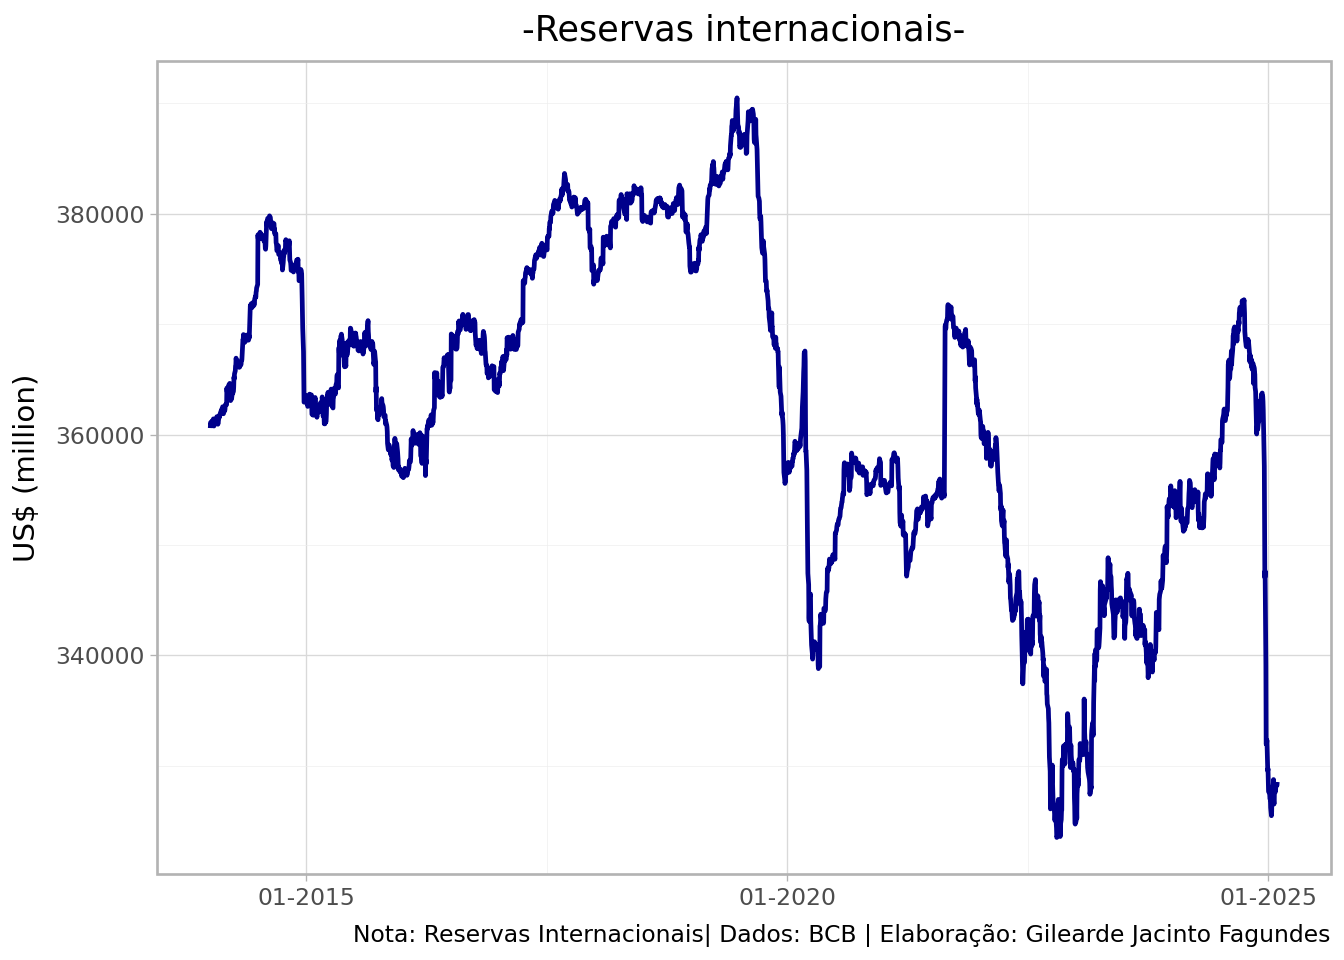
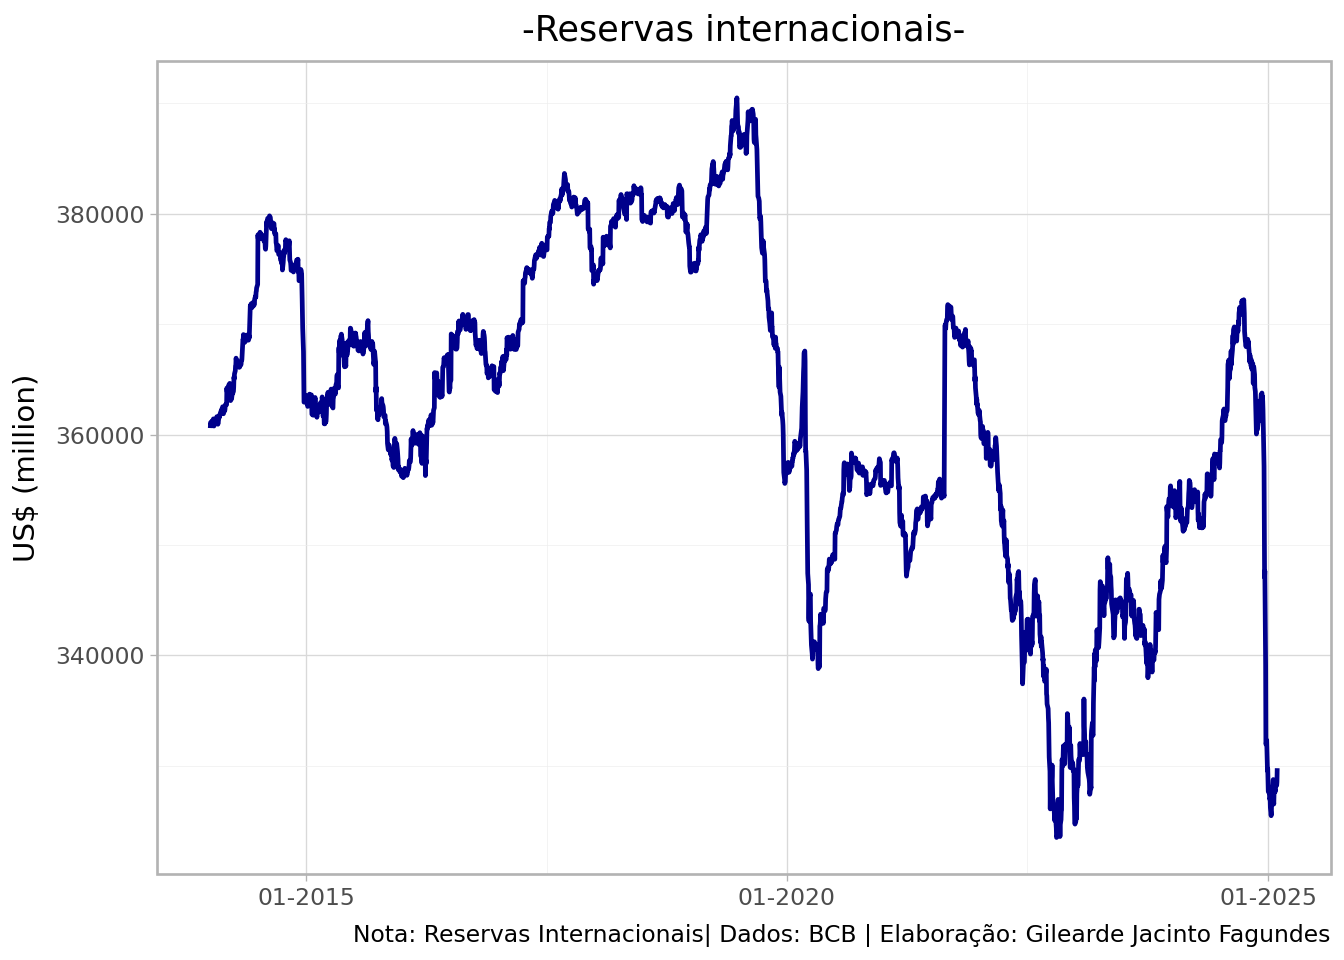
Atualização de relatorio e dashboard

diff --git a/relatorio/relatorio.html b/relatorio/relatorio.html
@@ -107,14 +107,14 @@ pre > code.sourceCode > span > a:first-child::before { text-decoration: underlin
 
 
 <p>Dados coletados da API do Banco Central do Brasil.</p>
-<div id="8942b407" class="cell" data-execution_count="1">
+<div id="b64a7f54" class="cell" data-execution_count="1">
 <div class="sourceCode cell-code" id="cb1"><pre class="sourceCode python code-with-copy"><code class="sourceCode python"><span id="cb1-1"><a href="#cb1-1" aria-hidden="true" tabindex="-1"></a><span class="co"># Import Librarys</span></span>
 <span id="cb1-2"><a href="#cb1-2" aria-hidden="true" tabindex="-1"></a><span class="im">from</span> bcb <span class="im">import</span> sgs</span>
 <span id="cb1-3"><a href="#cb1-3" aria-hidden="true" tabindex="-1"></a><span class="im">import</span> pandas <span class="im">as</span> pd</span>
 <span id="cb1-4"><a href="#cb1-4" aria-hidden="true" tabindex="-1"></a><span class="im">import</span> plotnine <span class="im">as</span> p9</span></code><button title="Copy to Clipboard" class="code-copy-button"><i class="bi"></i></button></pre></div>
 </div>
 <p>Utilização da library SGS/BCB:</p>
-<div id="cbee321c" class="cell" data-execution_count="2">
+<div id="8f3d9020" class="cell" data-execution_count="2">
 <div class="sourceCode cell-code" id="cb2"><pre class="sourceCode python code-with-copy"><code class="sourceCode python"><span id="cb2-1"><a href="#cb2-1" aria-hidden="true" tabindex="-1"></a><span class="co"># Collect data</span></span>
 <span id="cb2-2"><a href="#cb2-2" aria-hidden="true" tabindex="-1"></a>dados <span class="op">=</span> sgs.get(</span>
 <span id="cb2-3"><a href="#cb2-3" aria-hidden="true" tabindex="-1"></a>    codes<span class="op">=</span>{<span class="st">"reserva"</span>: <span class="dv">13621</span>},</span>
@@ -123,7 +123,7 @@ pre > code.sourceCode > span > a:first-child::before { text-decoration: underlin
 <span id="cb2-6"><a href="#cb2-6" aria-hidden="true" tabindex="-1"></a>)</span></code><button title="Copy to Clipboard" class="code-copy-button"><i class="bi"></i></button></pre></div>
 </div>
 <p>Os dados brutos obtidos no SGS/BCB são exibidos abaixo:</p>
-<div id="4b56933a" class="cell" data-execution_count="3">
+<div id="df9aea18" class="cell" data-execution_count="3">
 <div class="sourceCode cell-code" id="cb3"><pre class="sourceCode python code-with-copy"><code class="sourceCode python"><span id="cb3-1"><a href="#cb3-1" aria-hidden="true" tabindex="-1"></a>dados</span></code><button title="Copy to Clipboard" class="code-copy-button"><i class="bi"></i></button></pre></div>
 <div class="cell-output cell-output-display" data-execution_count="3">
 <div>
@@ -166,37 +166,37 @@ pre > code.sourceCode > span > a:first-child::before { text-decoration: underlin
 <td>...</td>
 </tr>
 <tr class="odd">
-<td data-quarto-table-cell-role="th">2025-01-29</td>
-<td>327823</td>
-</tr>
-<tr class="even">
 <td data-quarto-table-cell-role="th">2025-01-30</td>
 <td>328276</td>
 </tr>
-<tr class="odd">
+<tr class="even">
 <td data-quarto-table-cell-role="th">2025-01-31</td>
 <td>328303</td>
 </tr>
-<tr class="even">
+<tr class="odd">
 <td data-quarto-table-cell-role="th">2025-02-03</td>
 <td>328200</td>
 </tr>
-<tr class="odd">
+<tr class="even">
 <td data-quarto-table-cell-role="th">2025-02-04</td>
 <td>328516</td>
+</tr>
+<tr class="odd">
+<td data-quarto-table-cell-role="th">2025-02-05</td>
+<td>329765</td>
 </tr>
 </tbody>
 </table>
 
-<p>2785 rows × 1 columns</p>
+<p>2786 rows × 1 columns</p>
 </div>
 </div>
 </div>
 <p>Valores e datas da maxima e minima das Reservas Internacionais Totais:</p>
-<div id="09d3f1a1" class="cell" data-execution_count="4">
+<div id="364b2692" class="cell" data-execution_count="4">
 <div class="sourceCode cell-code" id="cb4"><pre class="sourceCode python code-with-copy"><code class="sourceCode python"><span id="cb4-1"><a href="#cb4-1" aria-hidden="true" tabindex="-1"></a>dados <span class="op">=</span> dados.assign(data <span class="op">=</span> dados.index)</span></code><button title="Copy to Clipboard" class="code-copy-button"><i class="bi"></i></button></pre></div>
 </div>
-<div id="8d92a525" class="cell" data-execution_count="5">
+<div id="13fd77a3" class="cell" data-execution_count="5">
 <div class="sourceCode cell-code" id="cb5"><pre class="sourceCode python code-with-copy"><code class="sourceCode python"><span id="cb5-1"><a href="#cb5-1" aria-hidden="true" tabindex="-1"></a>menor_valor <span class="op">=</span> dados.reserva.<span class="bu">min</span>() </span>
 <span id="cb5-2"><a href="#cb5-2" aria-hidden="true" tabindex="-1"></a>data_menor_valor <span class="op">=</span> dados.reserva.idxmin().date()</span>
 <span id="cb5-3"><a href="#cb5-3" aria-hidden="true" tabindex="-1"></a>maior_valor<span class="op">=</span>dados.reserva.<span class="bu">max</span>()</span>
@@ -208,7 +208,7 @@ pre > code.sourceCode > span > a:first-child::before { text-decoration: underlin
 </div>
 </div>
 <p>Gráfico de linha com a série das Reservas Internacionais Totais:</p>
-<div id="a9dd8ad3" class="cell" data-execution_count="6">
+<div id="18efc733" class="cell" data-execution_count="6">
 <div class="sourceCode cell-code" id="cb7"><pre class="sourceCode python code-with-copy"><code class="sourceCode python"><span id="cb7-1"><a href="#cb7-1" aria-hidden="true" tabindex="-1"></a><span class="co"># Line Graph</span></span>
 <span id="cb7-2"><a href="#cb7-2" aria-hidden="true" tabindex="-1"></a>chart<span class="op">=</span>p9.ggplot(data <span class="op">=</span> dados) <span class="op">+\</span></span>
 <span id="cb7-3"><a href="#cb7-3" aria-hidden="true" tabindex="-1"></a>  p9.aes(x <span class="op">=</span> <span class="st">"data"</span>, y <span class="op">=</span> <span class="st">"reserva"</span>) <span class="op">+\</span></span>
@@ -222,7 +222,7 @@ pre > code.sourceCode > span > a:first-child::before { text-decoration: underlin
 <span id="cb7-11"><a href="#cb7-11" aria-hidden="true" tabindex="-1"></a>    ) <span class="op">+\</span></span>
 <span id="cb7-12"><a href="#cb7-12" aria-hidden="true" tabindex="-1"></a>  p9.theme_light()</span></code><button title="Copy to Clipboard" class="code-copy-button"><i class="bi"></i></button></pre></div>
 </div>
-<div id="df0a62d7" class="cell" data-execution_count="7">
+<div id="4a0dcd90" class="cell" data-execution_count="7">
 <div class="sourceCode cell-code" id="cb8"><pre class="sourceCode python code-with-copy"><code class="sourceCode python"><span id="cb8-1"><a href="#cb8-1" aria-hidden="true" tabindex="-1"></a>chart</span></code><button title="Copy to Clipboard" class="code-copy-button"><i class="bi"></i></button></pre></div>
 <div class="cell-output cell-output-display">
 <div>
